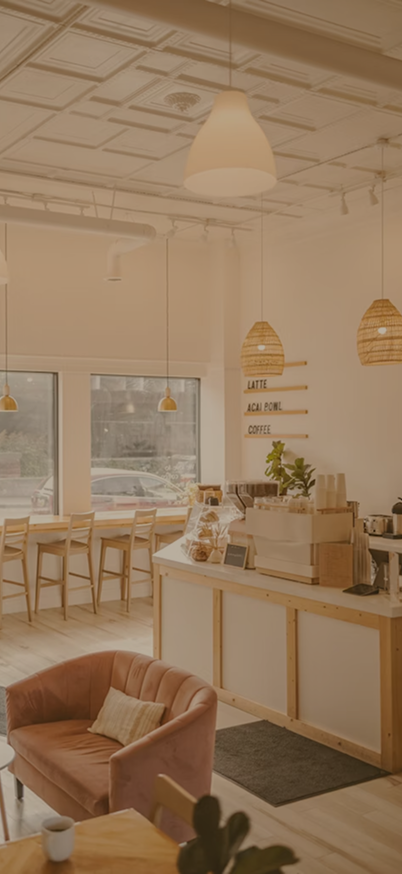
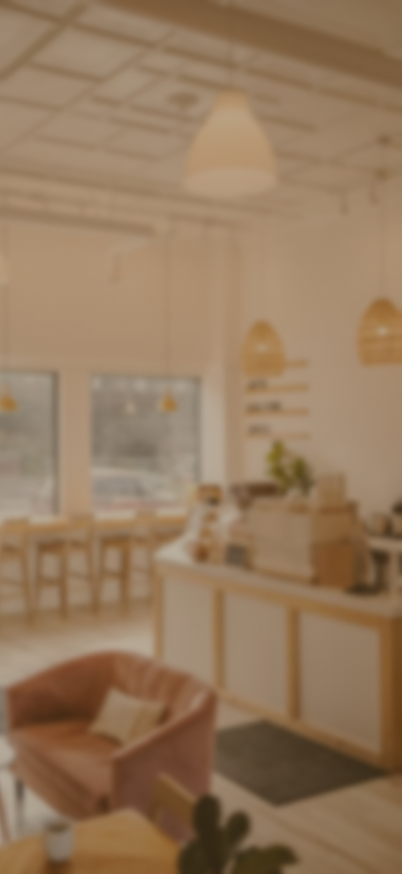
fix: 背景画像の変更

diff --git a/src/app/globals.css b/src/app/globals.css
@@ -45,3 +45,11 @@ body {
 h1 {
   font-weight: normal;
 }
+
+
+@media (min-width: 768px) {
+  body {
+    background-image: url("../../public/images/pc_background.png");
+    background-attachment: fixed; 
+  }
+}
